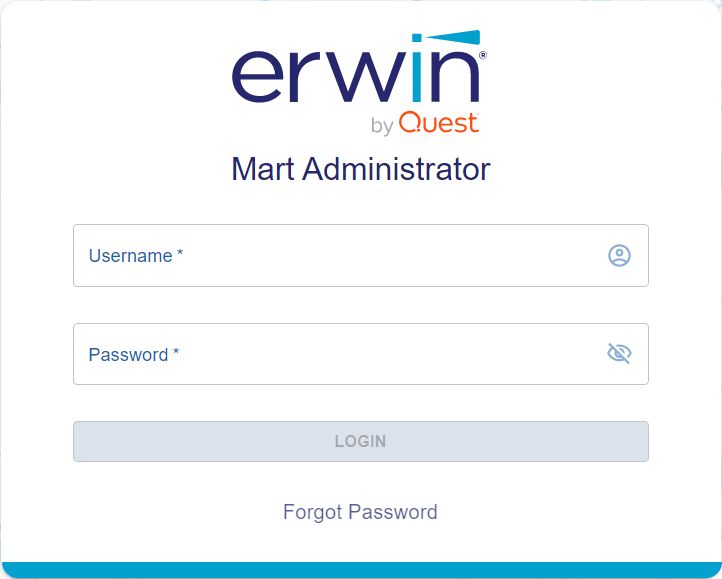
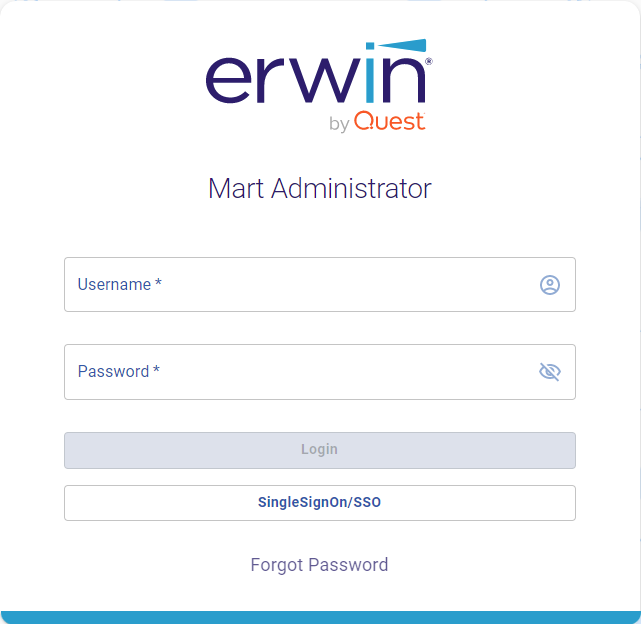
Updated for Mart On Cloud
Updated with Mart on Cloud information

diff --git a/Content/User Guides/Mart Online Help/manage_users_mart.html b/Content/User Guides/Mart Online Help/manage_users_mart.html
@@ -47,10 +47,13 @@
                 <p class="bodytext">Click <img src="../../Resources/Images/Icon-Mart-AddUser.png" style="width: 18px;height: 14px;" />.<br />The Add User page appears.<br /><img src="../../Resources/Images/Add-User.png" style="border-left-style: solid;border-left-width: 1px;border-right-style: solid;border-right-width: 1px;border-top-style: solid;border-top-width: 1px;border-bottom-style: solid;border-bottom-width: 1px;width: 318px;height: 310px;" /></p>
             </li>
             <li class="listnumber">Select one of the user types:
-			<dl><dt>Server User</dt><dd><p class="normaltermcontinued3">Specifies a Mart user that is authenticated by the credentials provided in Mart. This is an application-level user and not a database user.<br /><strong>Note:</strong> There are no database level users in erwin DM Version 9 Mart.</p></dd></dl><dl><dt>Windows User</dt><dd><p class="normaltermcontinued3">Specifies a Mart user that is authenticated by the Windows network.</p></dd><dt>Group User</dt><dd><p class="normaltermcontinued3">Specifies a Windows user group. This means that all users that are part of the selected group can access Mart. To log in as a Group User, use your Group User's email ID.</p></dd></dl></li>
+			<dl><dt>Server User</dt><dd><p class="normaltermcontinued3">Indicates a Mart user that is authenticated by the credentials provided in Mart. This is an application-level user and not a database user.<br /><strong>Note:</strong> There are no database level users in erwin DM Version 9 Mart.</p></dd><dt>Windows User</dt><dd><p class="normaltermcontinued3">Indicates a Mart user that is authenticated by the Windows network.</p></dd><dt>Group User</dt><dd><p class="normaltermcontinued3">Indicates a Windows user group. This means that all users that are part of the selected group can access Mart. To log in as a Group User, use your Group User's email ID.</p></dd><dt>Azure AD User</dt><dd><p class="normaltermcontinued3">Indicates a Mart user that is authenticated by the Azure Active Directory network. This user type is This means that all users that are part of the selected group can access Mart. To log in as a Group User, use your Group User's email ID.</p></dd><dt>Azure AD Group User</dt><dd><p class="normaltermcontinued3">Indicates a user group that is authenticated by the Azure Active Directory. This User Type is available only for erwin Mart on Cloud.</p></dd></dl></li>
             <li class="listnumber">
                 <p class="bodytext">Based on the user type, enter values to the following fields:</p>
-                <table border="1" cellpadding="2" cellspacing="0" class="tableintopic" style="border-collapse: collapse;border: 1px solid #010101;">
+                <table border="1" cellpadding="2" cellspacing="0" style="border-collapse: collapse;border: 1px solid #010101;margin-left: 0;margin-right: auto;">
+                    <col />
+                    <col />
+                    <col />
                     <!--<table class="tableintopic" width="1256" cellpadding="2" cellspacing="0" border="1" style="border-collapse: collapse;border: 1px solid #010101;">-->
                     <tr align="left" valign="top">
                         <td style="border: 1px solid #010101;" valign="middle" width="628">
@@ -59,13 +62,18 @@
                         <td style="border: 1px solid #010101;" valign="middle" width="628">
                             <p class="tableheading">Description</p>
                         </td>
+                        <td style="border: 1px solid #010101;" valign="middle" width="628">
+                            <p class="tableheading">Additional Information</p>
+                        </td>
                     </tr>
                     <tr align="left" valign="top">
                         <td style="border: 1px solid #010101;" width="628">
                             <p class="tablebodytext">Username</p>
                         </td>
                         <td style="border: 1px solid #010101;" width="628">
-                            <p class="tablebodytext">Specifies the name to use to login.</p>
+                            <p class="tablebodytext">Specifies the name to use to login</p>
+                        </td>
+                        <td style="border: 1px solid #010101;" width="628">
                             <p class="tablebodytext">This field applies to Server and Windows users.</p>
                         </td>
                     </tr>
@@ -75,7 +83,10 @@
                         </td>
                         <td style="border: 1px solid #010101;" width="628">
                             <p class="tablebodytext">Specifies the password of the user.</p>
-                            <p class="tablebodytext">This field applies to Server users. A password must fulfil the following criteria:</p>
+                        </td>
+                        <td style="border: 1px solid #010101;" width="628">
+                            <p class="tablebodytext">This field applies to Server users.</p>
+                            <p class="tablebodytext">A password must fulfill the following criteria:</p>
                             <ul class="listbullet">
                                 <li class="listbullet">Contains at least 1 lowercase character
 			</li>
@@ -98,22 +109,54 @@
                         <td style="border: 1px solid #010101;" width="628">
                             <p class="tablebodytext">Specifies the email address associated with the user account</p>
                         </td>
+                        <td style="border: 1px solid #010101;" width="628">
+                            <p>&#160;</p>
+                        </td>
                     </tr>
                     <tr align="left" valign="top">
                         <td style="border: 1px solid #010101;" width="628">Confirm Email Address</td>
                         <td style="border: 1px solid #010101;" width="628">
-                            <p width="628">Specifies the email address again to confirm.</p>
+                            <p width="628">Specifies the email address again to confirm</p>
+                        </td>
+                        <td style="border: 1px solid #010101;" width="628">
                             <p width="628">This field applies to Server and Windows users.</p>
                         </td>
                     </tr>
                     <tr align="left" valign="top">
                         <td style="border: 1px solid #010101;" width="628">User must change password at next logon</td>
                         <td style="border: 1px solid #010101;" width="628">Specifies that the users get a change password screen when they log in next time to Mart Admin</td>
+                        <td style="border: 1px solid #010101;" width="628">This field applies to Server users.</td>
                     </tr>
                     <tr align="left" valign="top">
-                        <td style="border: 1px solid #010101;" width="628">Group User</td>
+                        <td style="border: 1px solid #010101;" width="628">Load type option</td>
                         <td style="border: 1px solid #010101;" width="628">
-                            <p width="628">Specifies the identifier of the group that you want to add.</p>
+                            <p>&#160;</p>
+                        </td>
+                        <td style="border: 1px solid #010101;" width="628">
+                            <p>This field applies only to erwin Mart on premises for a Group User </p>
+                        </td>
+                    </tr>
+                    <tr align="left" valign="top">
+                        <td style="border: 1px solid #010101;" width="628">Group name</td>
+                        <td style="border: 1px solid #010101;" width="628">
+                            <p>Specifies the group name to which a user belongs</p>
+                        </td>
+                        <td style="border: 1px solid #010101;" width="628">
+                            <p>This field applies only to erwin Mart on premises for a Group User </p>
+                        </td>
+                    </tr>
+                    <tr align="left" valign="top">
+                        <td style="border: 1px solid #010101;" width="628">LDAP file upload option</td>
+                        <td style="border: 1px solid #010101;" width="628">Specifies a list of users (for example, LDAP users) in the CSV format</td>
+                        <td style="border: 1px solid #010101;" width="628">
+                            <br />This field applies only to erwin Mart on Cloud for a Group User.</td>
+                    </tr>
+                    <tr align="left" valign="top">
+                        <td style="border: 1px solid #010101;" width="628">Group Users</td>
+                        <td style="border: 1px solid #010101;" width="628">
+                            <p width="628">Specifies the identifier of the group that you want to add</p>
+                        </td>
+                        <td style="border: 1px solid #010101;" width="628">
                             <p width="628">This field applies only to Group users.</p>
                         </td>
                     </tr>

diff --git a/Content/User Guides/Mart Online Help/mart_users.html b/Content/User Guides/Mart Online Help/mart_users.html
@@ -41,20 +41,26 @@
         <dl>
             <dt>Server User</dt>
             <dd>
-                <p class="normaltermcontinued">Specifies the user that is authenticated by the Mart server. The server user is an application level user and not a database user. A server user provides the user name and password to log on to Mart. For example, Peter is a Business Analyst and reviews data models. Add Peter as a Server user as he accesses Mart only at the time of reviewing data models. Peter provides his user name and password to connect to Mart.</p>
+                <p class="normaltermcontinued">Indicates a user that is authenticated by the Mart server. The server user is an application level user and not a database user. A server user provides the user name and password to log on to Mart. For example, Peter is a Business Analyst and reviews data models. Add Peter as a Server user as he accesses Mart only at the time of reviewing data models. Peter provides his user name and password to connect to Mart.</p>
                 <p class="listnote"><strong>Note: </strong>Only a Server user can access erwin Mart Administrator. There are no database level users in the current Mart.</p>
             </dd>
             <dt>Windows User</dt>
             <dd>
-                <p class="normaltermcontinued">Specifies the user that is authenticated by the Windows network. A Windows user need not provide the user name and password to log on to Mart. For example, Jane is a Data Modeler who works on Mart. Add Jane as a Windows user, so she accesses Mart using her Windows network credentials. Jane does not provide her user name and password to connect to Mart.</p>
+                <p class="normaltermcontinued">Indicates a user that is authenticated by the Windows network. A Windows user need not provide the user name and password to log on to Mart. For example, Jane is a Data Modeler who works on Mart. Add Jane as a Windows user, so she accesses Mart using her Windows network credentials. Jane does not provide her user name and password to connect to Mart.</p>
                 <p class="normaltermcontinued">Also, Azure Active Directory&#160;(AD) users can connect to erwin Mart only through erwin Data Modeler by adding Azure AD&#160;user as a Windows user in the Mart Administrator. For example, AZUREAD\abd@MyOrg.com or AZUREAD\abc or abc@MyOrg.com.</p>
                 <p class="normaltermcontinued">Note that this type of user cannot be used as a group user as Domain Controller is not available in Azure AD.</p>
             </dd>
-            <dt>User Group</dt>
+            <dt>Group User</dt>
             <dd>
-                <p class="normaltermcontinued">Specifies a user group that is part of an Active Directory. Use this option to add an entire group that accesses Mart. For example, you have a user group ABC-Domain\XYZDivision_AllModelers@MyOrg.com. Add XYZDivision_AllModelers, so that all users that are part of this group and are authenticated by ABC-Domain, connect to Mart. Users of this group do not have to provide their user name and password when they connect to Mart.</p>
-                <p class="normaltermcontinued">
-                </p>
+                <p class="normaltermcontinued">Indicates a user group that is part of an Active Directory. Use this option to add an entire group that accesses Mart. For example, you have a user group ABC-Domain\XYZDivision_AllModelers@MyOrg.com. Add XYZDivision_AllModelers, so that all users that are part of this group and are authenticated by ABC-Domain, connect to Mart. Users of this group do not have to provide their user name and password when they connect to Mart.<br />For erwin Mart on Cloud, to add group users, upload a list of users (for example, LDAP users) in the CSV format.</p>
+            </dd>
+            <dt>Azure AD User</dt>
+            <dd>
+                <p class="normaltermcontinued">Indicates a user that is authenticated by the Azure Active Directory. This User Type is available only for erwin Mart on Cloud.<br /></p>
+            </dd>
+            <dt>Azure AD Group User</dt>
+            <dd>
+                <p class="normaltermcontinued">Indicates a user group that is authenticated by the Azure Active Directory. This User Type is available only for erwin Mart on Cloud.<br />Use this option to add an entire group that accesses Mart.  Users of this group do not have to provide their user name and password when they connect to Mart.</p>
             </dd>
         </dl>
         <p class="bodytext"><strong>Note</strong>: A password should fulfill the following criteria:</p>

diff --git a/Content/User Guides/Mart Online Help/User Interface.html b/Content/User Guides/Mart Online Help/User Interface.html
@@ -38,9 +38,9 @@
         <p class="bodytext">Once you have installed and configured <MadCap:variable name="General.erwin Mart Administrator" xmlns:MadCap="http://www.madcapsoftware.com/Schemas/MadCap.xsd" />, follow these steps to access and use it:</p>
         <ol class="listnumber">
             <li class="listnumber">Open <MadCap:variable name="General.erwin Mart Administrator" xmlns:MadCap="http://www.madcapsoftware.com/Schemas/MadCap.xsd" />.</li>
-            <p class="bodytext">The Login page appears.<br /><img src="../../Resources/Images/Mart-Credentials.png" xmlns:MadCap="http://www.madcapsoftware.com/Schemas/MadCap.xsd" style="width: 467px;height: 374px;border-left-style: solid;border-left-width: 1px;border-right-style: solid;border-right-width: 1px;border-top-style: solid;border-top-width: 1px;border-bottom-style: solid;border-bottom-width: 1px;" /></p>
+            <p class="bodytext">The Login page appears.<br /><img src="../../Resources/Images/Mart-Credentials.png" xmlns:MadCap="http://www.madcapsoftware.com/Schemas/MadCap.xsd" style="height: 374px;border-left-style: solid;border-left-width: 1px;border-right-style: solid;border-right-width: 1px;border-top-style: solid;border-top-width: 1px;border-bottom-style: solid;border-bottom-width: 1px;width: 430px;" /></p>
             <li class="listnumber">Enter your erwin Mart Administrator credentials.</li>
-            <li class="listnumber">Click <b>Login</b>.</li>
+            <li class="listnumber">Click <b>Login</b>.<br /><b>Note</b>: Click <b>SingleSignOn/SSO</b> if you use erwin Mart on cloud. In that case, the Login button is disabled.</li>
         </ol>
         <p class="bodytext">After successful log in, the Home page appears.</p>
         <p>
@@ -86,7 +86,8 @@
                 <tr class="TableStyle-TableStyle-Body-Body1">
                     <td class="TableStyle-TableStyle-BodyD-Column1-Body1">
                         <p class="bodytext">
-                            <img src="../../Resources/Images/Icon-UserAccount.png" /> <b>User Account</b>: Click this icon to manage your user account or log out.</p>
+                            <img src="../../Resources/Images/Icon-UserAccount.png" /> <b>User Account</b>: Click this icon to view account information, upload an account picture, change password, or log out.</p>
+                        <p class="bodytext"><b>Note</b>: For erwin Mart on Cloud, the Change Password button is available only if your user account has the View User permission.</p>
                     </td>
                 </tr>
                 <tr class="TableStyle-TableStyle-Body-Body1">

diff --git a/Content/User Guides/Mart Online Help/Online_Help.html b/Content/User Guides/Mart Online Help/Online_Help.html
@@ -33,8 +33,12 @@
         </script> <script language="javascript" type="text/javascript"></script> <script language="javascript" src="../../Resources/mailerwin.js" type="text/javascript"></script> <script language="javascript" type="text/javascript"></script></head>
     <body onload="loadParent();highlightx();if (isTOCLoaded()) {highlight('8211')}">
         <h3 class="heading3" id="t1419">
-            <MadCap:concept term="User Guides" xmlns:MadCap="http://www.madcapsoftware.com/Schemas/MadCap.xsd" />erwin Mart Server Online Help</h3>
-        <p><span class="bodytext">This guide walks you through the erwin Mart Server UI and explains the tasks that you can perform using it.</span>
+            <MadCap:concept term="User Guides" xmlns:MadCap="http://www.madcapsoftware.com/Schemas/MadCap.xsd" />erwin Mart Server</h3>
+        <p><span class="bodytext">erwin Mart Server is one of the components of the erwin Data Modeling solution. It enables centralized model management, collaborative modeling with conflict resolution, and change management with auditing. Starting release 12.1, erwin Mart Server is available in two flavors, on-premises and on-cloud.</span>
+        </p>
+        <p><span class="bodytext">erwin Mart Administrator is the front-end web application for erwin Mart Server and enables communication between erwin Data Modeler and erwin Mart Server.</span>
+        </p>
+        <p><span class="bodytext">This guide walks you through the erwin Mart Administrator UI and explains its working for both, on-premises and on-cloud flavors.</span>
         </p>
     </body>
 </html>

diff --git a/Content/User Guides/Mart Online Help/log_in_to_mart.html b/Content/User Guides/Mart Online Help/log_in_to_mart.html
@@ -53,8 +53,8 @@
         <p class="bodytext">Apart from the above criteria, special characters are optional.</p>
         <p class="bodytext">Also, if you enter an incorrect password five consecutive times, your account will be locked for five minutes (300 seconds) by default.<br />You can change the time for which the account stays locked as follows:</p>
         <ol class="listnumber2">
-            <li class="listnumber2">From Windows Start menu, click <b>erwin</b> &gt; <b>Configure MartServer</b>.
-<p class="listnote2">The erwin Mart Configuration dialog appears.<br /><img src="../../Resources/Images/erwin-Mart-Configuration.png" xmlns:MadCap="http://www.madcapsoftware.com/Schemas/MadCap.xsd" style="width: 473px;height: 511px;" /></p></li>
+            <li class="listnumber2">On Windows Start menu, click <b>erwin</b> &gt; <b>Configure MartServer</b>.
+<p class="listnote2">The erwin Mart Configuration dialog appears.<br /><img src="../../Resources/Images/erwin-Mart-Configuration.png" style="width: 473px;height: 511px;" /></p></li>
             <li class="listnumber2">Click the 	<b>Mart Admin</b> tab.<br />The following screen appears.<br /><img src="../../Resources/Images/Mart-Admin.png" xmlns:MadCap="http://www.madcapsoftware.com/Schemas/MadCap.xsd" style="border-bottom-style: solid;border-bottom-width: 1px;width: 467px;height: 449px;" /></li>
             <li class="listnumber2">Edit the value of the Account Lockout Duration (Seconds) field to an appropriate value. At the most, you can set it to 30 days (2592000 seconds).
 </li>
